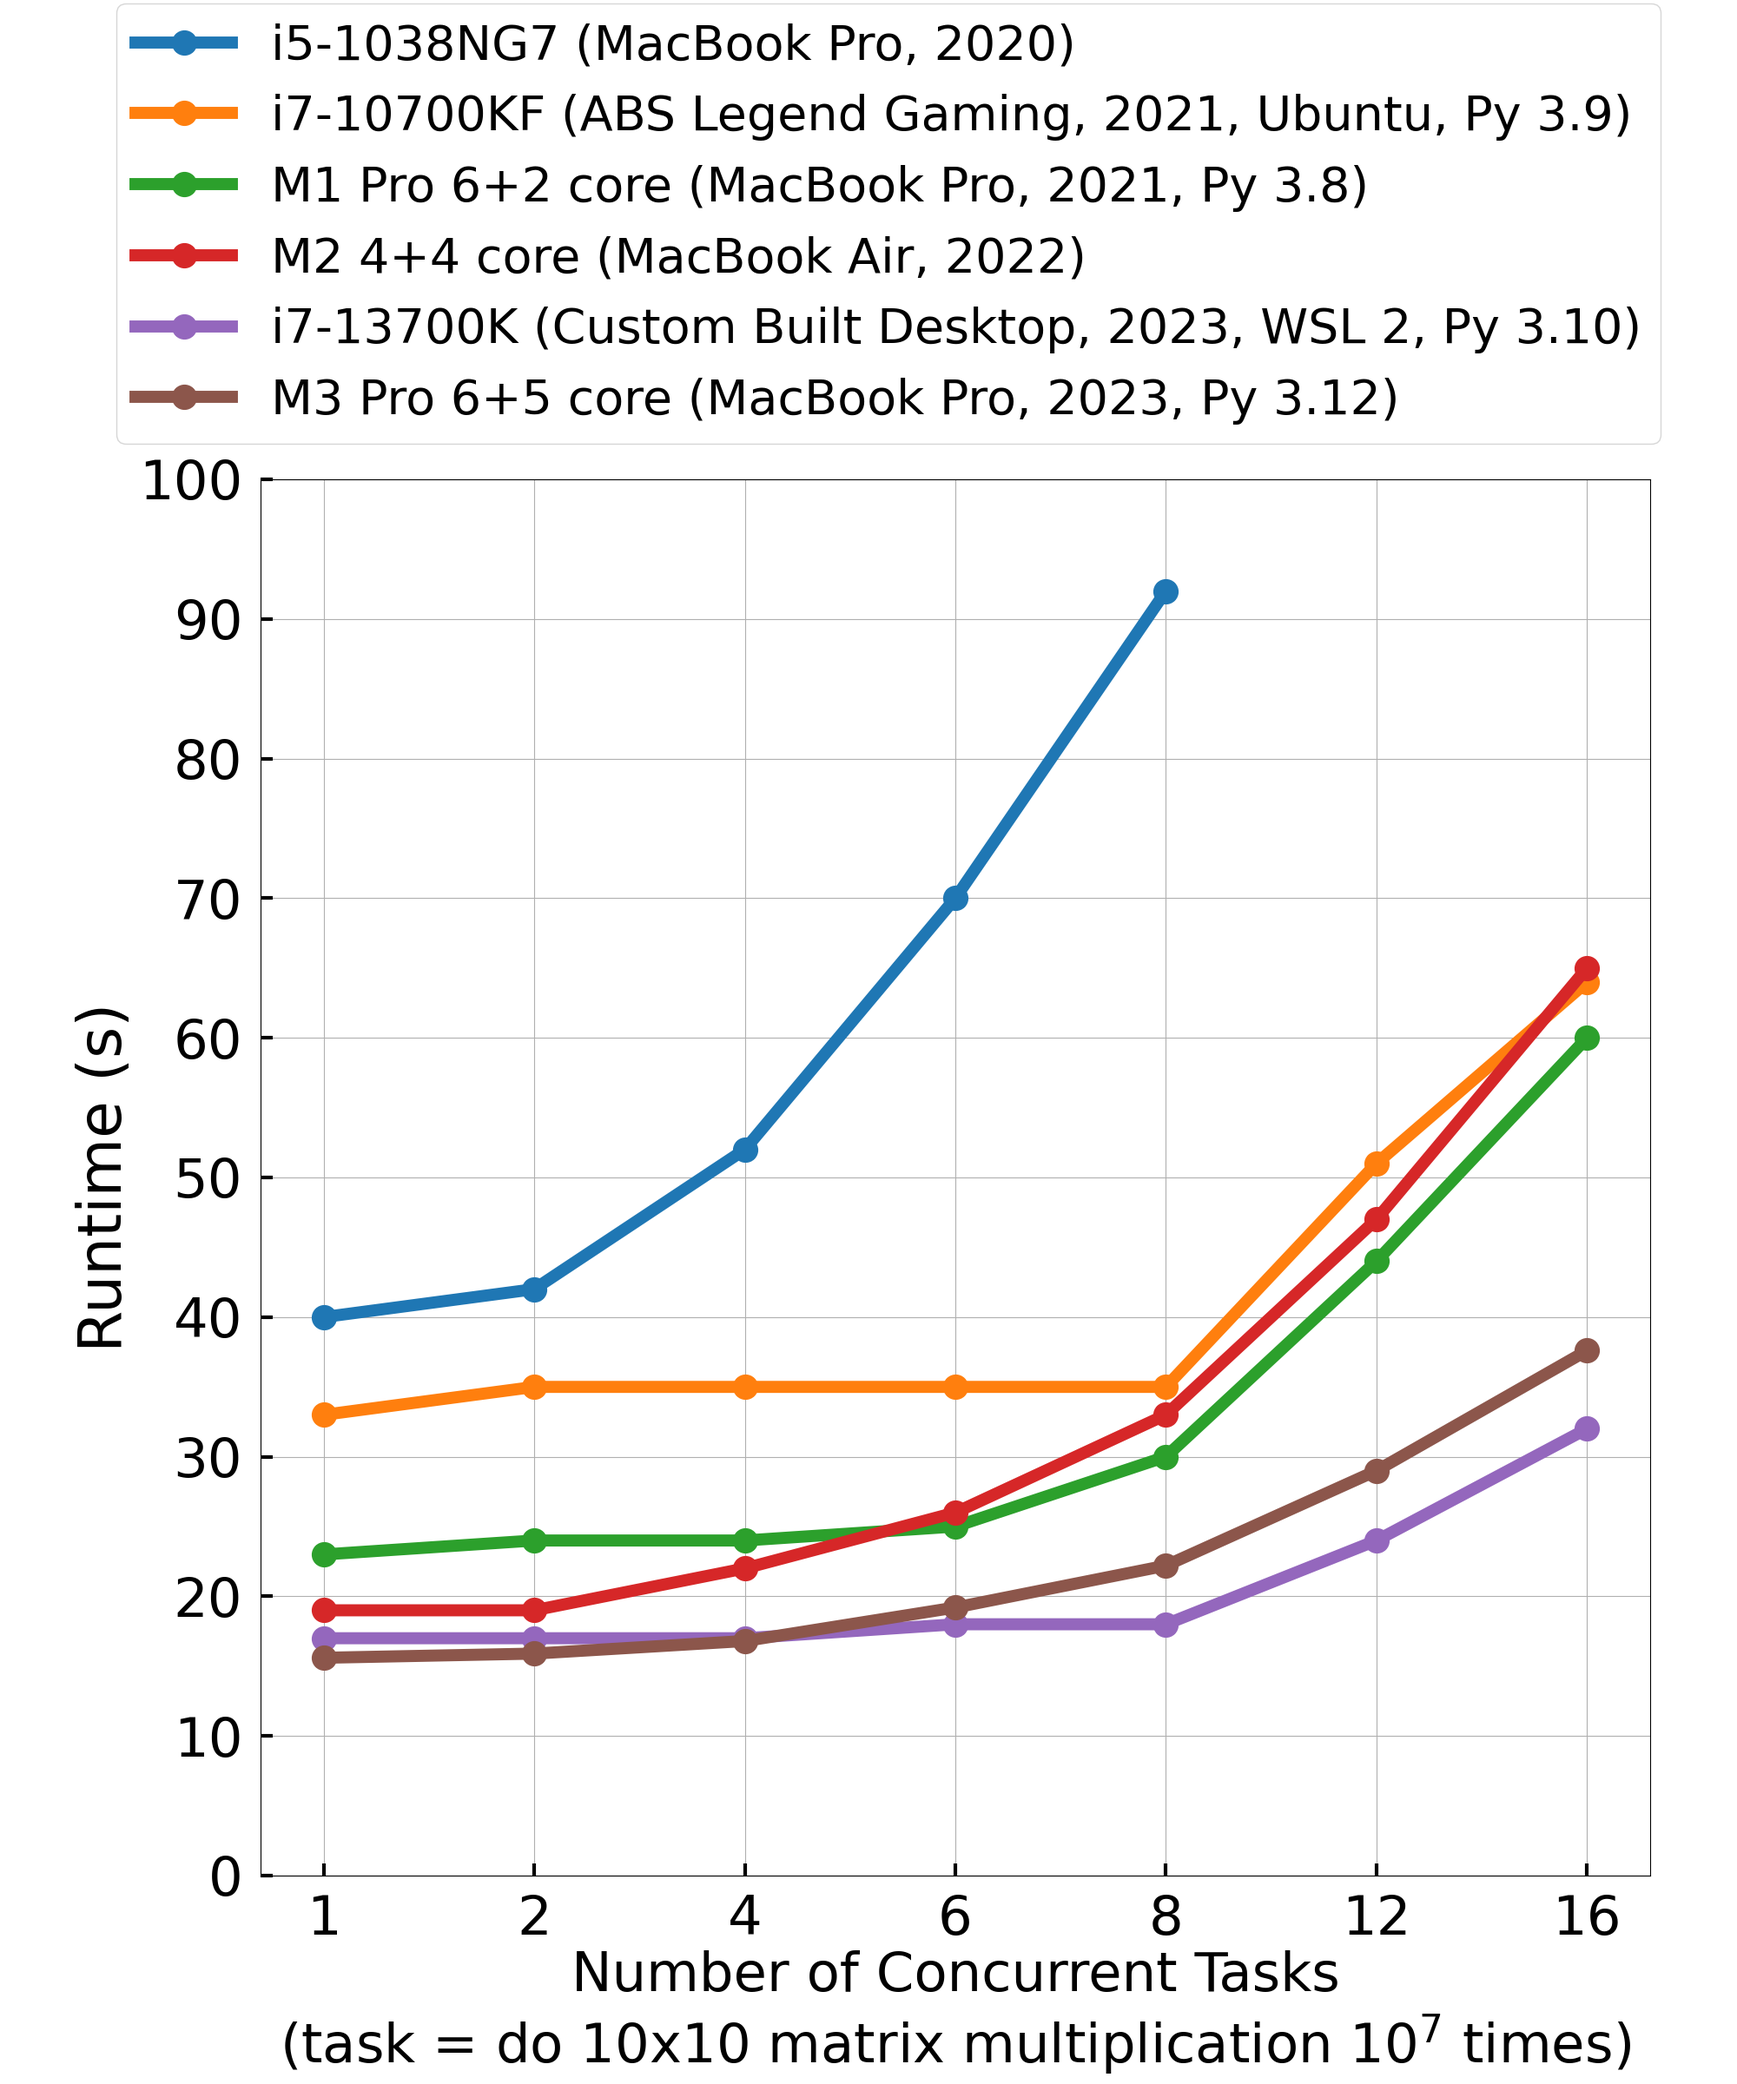
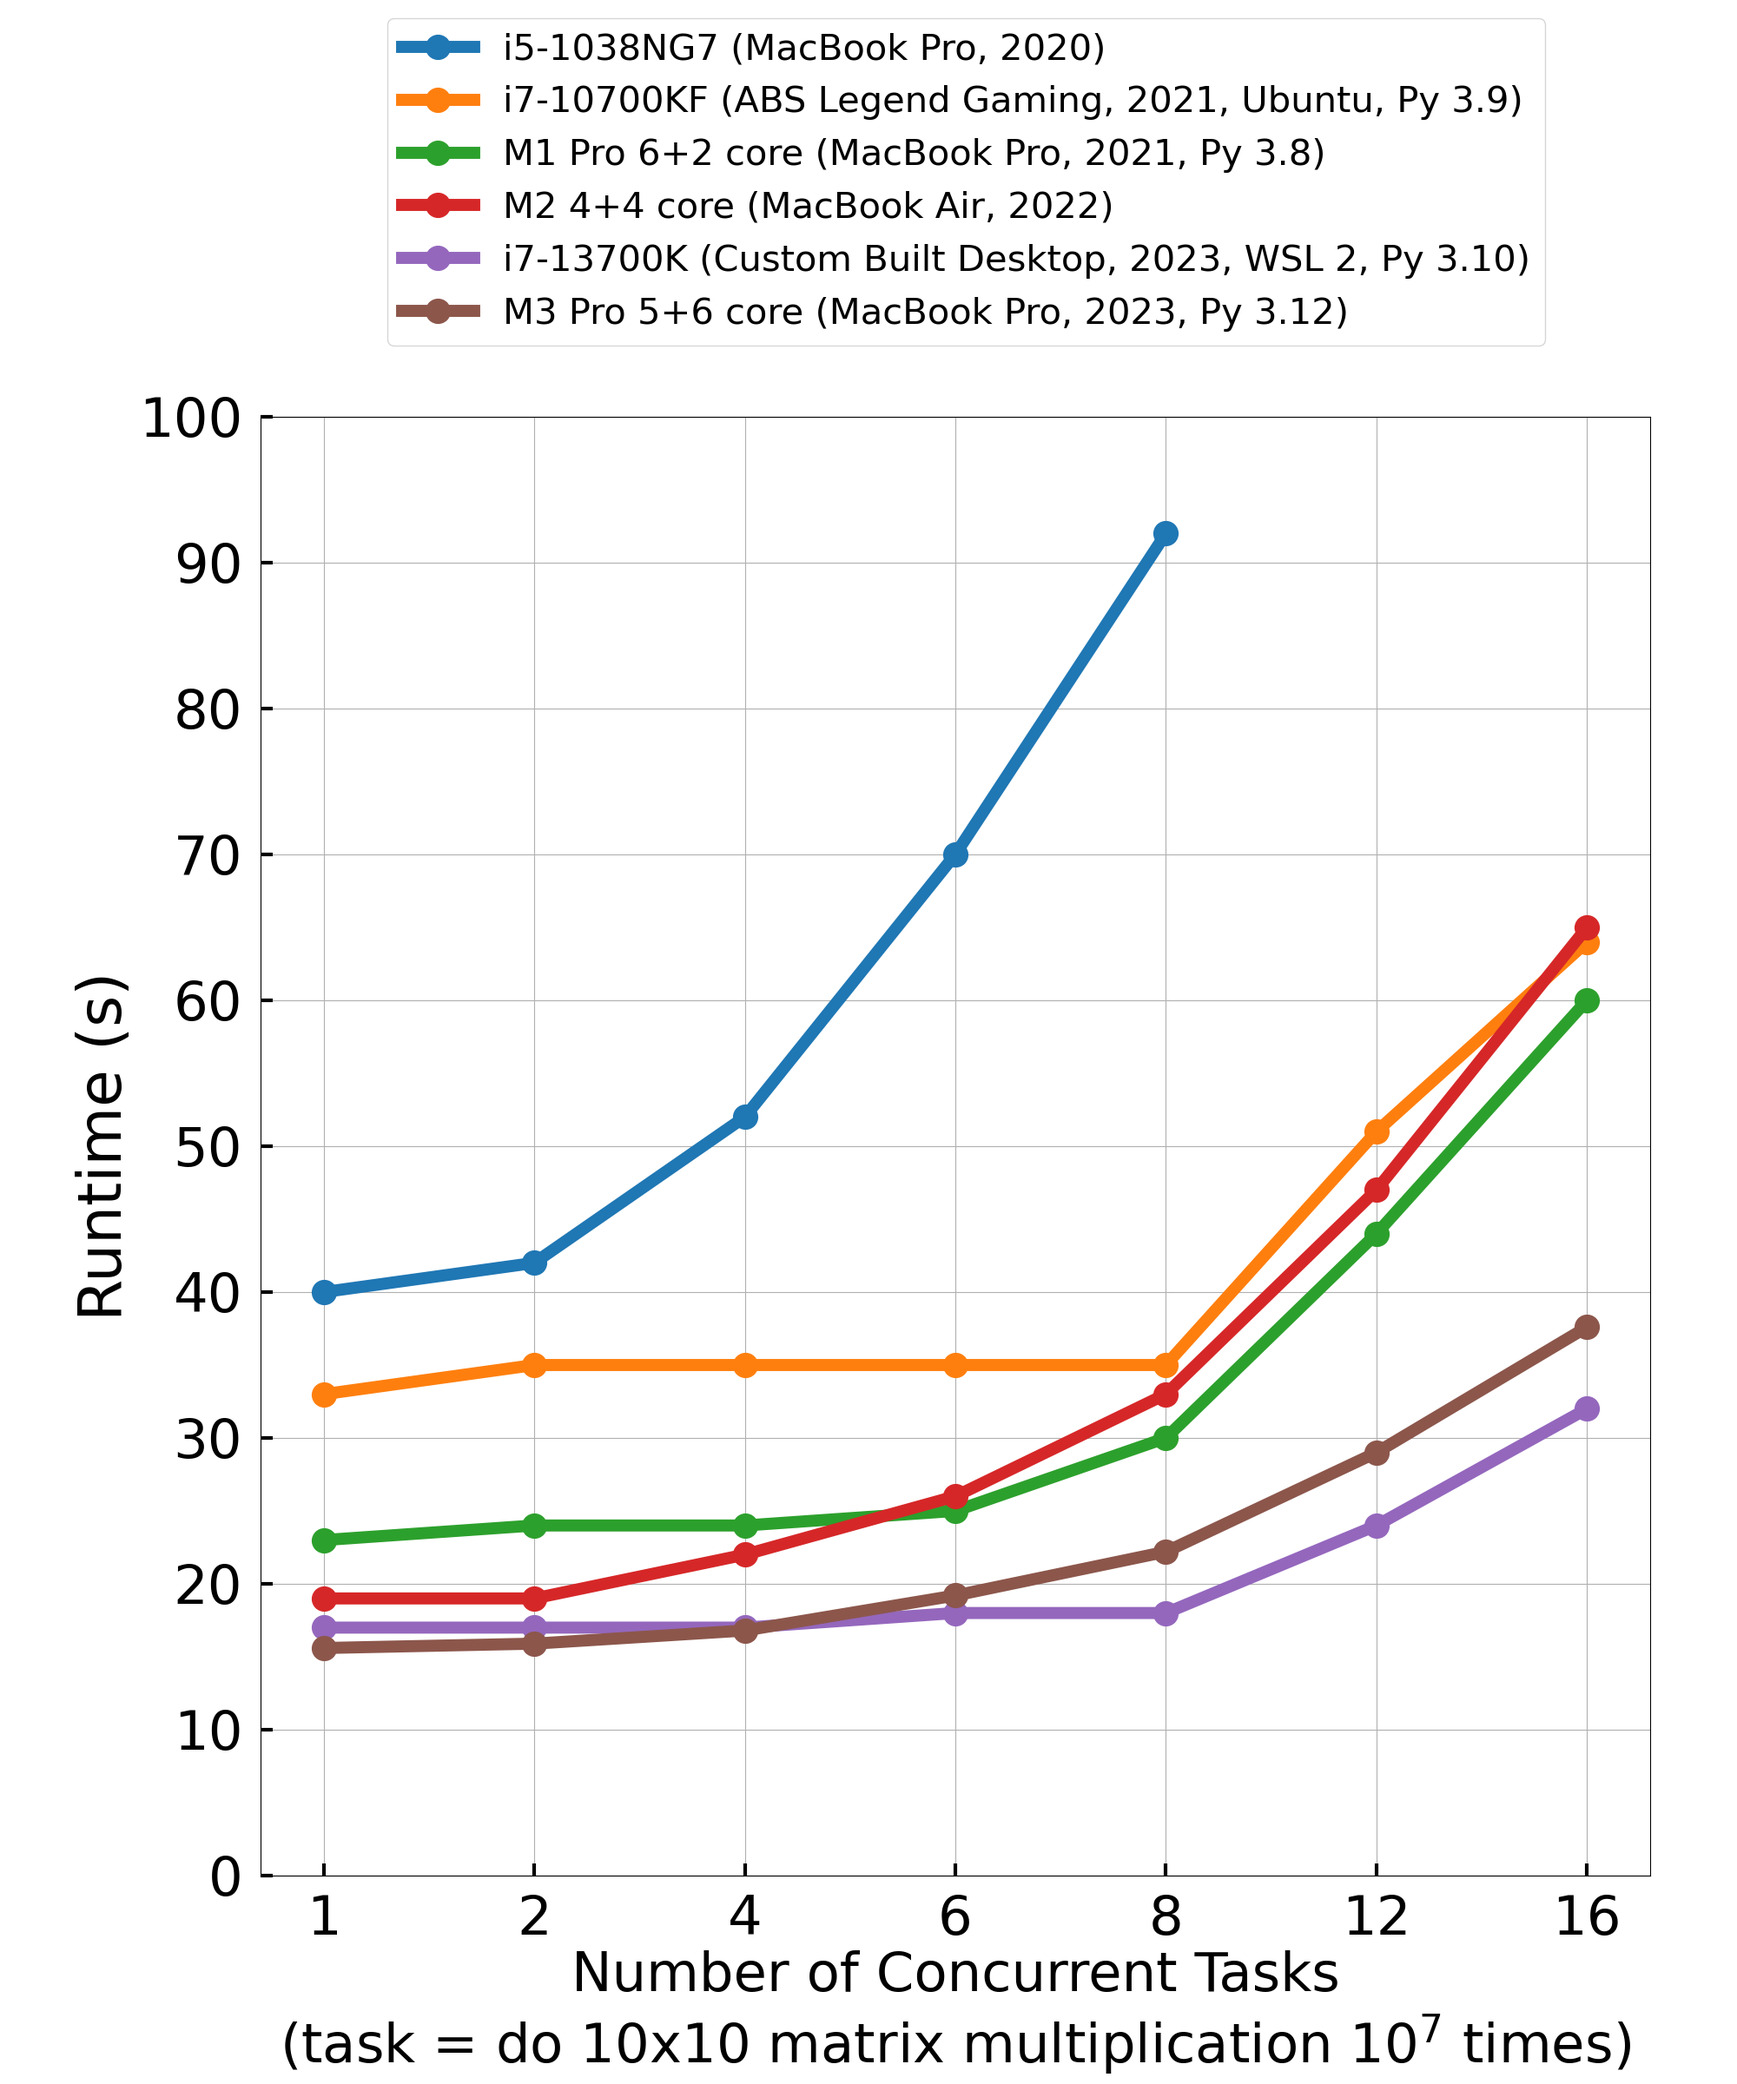
fix error in M3 Pro

diff --git a/plot.py b/plot.py
@@ -14,15 +14,15 @@ def plot():
     plt.rcParams['font.size'] = 45
     plt.rcParams['lines.linewidth'] = 10
     fig, ax = plt.subplots(1, 1, figsize=(20, 24))
-    fig.subplots_adjust(left=0.15, right=0.95, top=0.77, bottom=0.1)
+    fig.subplots_adjust(left=0.15, right=0.95, top=0.8, bottom=0.1)
     # ax.plot(np.arange(len(y2)), y2, marker='o', markersize=20, label='i7-1065G7 (Microsoft Surface 3 2020)')
     ax.plot(np.arange(len(y1)), y1, marker='o', markersize=20, label='i5-1038NG7 (MacBook Pro, 2020)')
     ax.plot(np.arange(len(y3)), y3, marker='o', markersize=20, label='i7-10700KF (ABS Legend Gaming, 2021, Ubuntu, Py 3.9)')
     ax.plot(np.arange(len(y4)), y4, marker='o', markersize=20, label='M1 Pro 6+2 core (MacBook Pro, 2021, Py 3.8)')
     ax.plot(np.arange(len(y5)), y5, marker='o', markersize=20, label='M2 4+4 core (MacBook Air, 2022)')
     ax.plot(np.arange(len(y6)), y6, marker='o', markersize=20, label='i7-13700K (Custom Built Desktop, 2023, WSL 2, Py 3.10)')
-    ax.plot(np.arange(len(y7)), y7, marker='o', markersize=20, label='M3 Pro 6+5 core (MacBook Pro, 2023, Py 3.12)')
-    fig.legend(ncol=1, fontsize=40, bbox_to_anchor=(0.97, 1.01))
+    ax.plot(np.arange(len(y7)), y7, marker='o', markersize=20, label='M3 Pro 5+6 core (MacBook Pro, 2023, Py 3.12)')
+    fig.legend(ncol=1, fontsize=30, bbox_to_anchor=(0.9, 1))
     ax.grid()
     ax.set_xticks(np.arange(len(X)))
     ax.set_xticklabels([str(x) for x in X])
